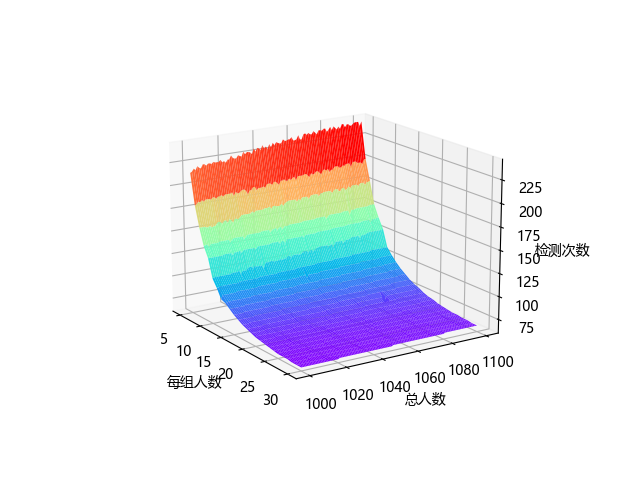
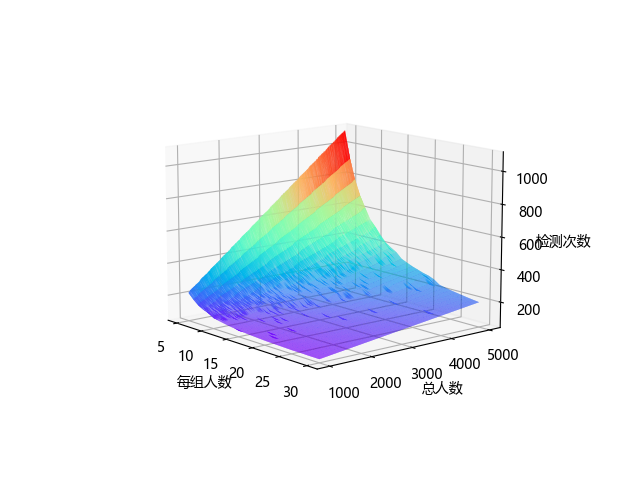
run run run!

Changed region(s): [[0.25, 0.25, 0.9375, 0.875]]

diff --git a/Q2.py b/Q2.py
@@ -84,7 +84,7 @@ def start(x,y):
 
 #########################
 
-people=pow
+people=50000
 
 def main():
 	# x 一组几人(-5) y 总共几人(-1000) content 检测次数
@@ -99,7 +99,7 @@ def main():
 			th_lst[i].join()
 			x,y,z=th_lst[i].get_result()
 			zlist[x-5][y-begin]=z
-	
+
 	plt.show()
 
 
